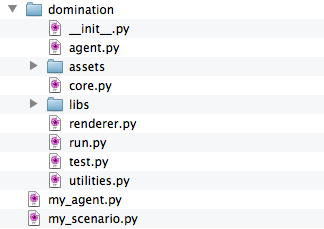
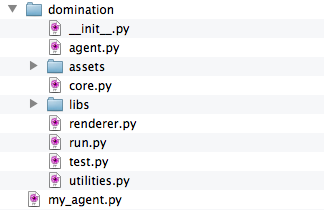
deprecate scenario

diff --git a/docs/index.rst b/docs/index.rst
@@ -38,14 +38,13 @@ If you're not going to read any of the other documentation, just do the followin
 
 3. Create another file, put the following code in there, and run it::
 
-	from domination import core, run
-    
-	class MyScenario(run.Scenario):
-	   REPEATS = 10
-	   SETTINGS = core.Settings(max_steps=100)
-   
-	MyScenario.test(red='my_agent.py', blue='domination/agent.py')
-  
+	from domination import core
+	
+	# Setup
+	my_settings = core.Settings(max_steps=100)
+	my_game     = core.Game(red='my_agent.py', blue='domination/agent.py', settings=my_settings)
+	# Run it
+	my_game.run()  
 
 
 Indices and tables
